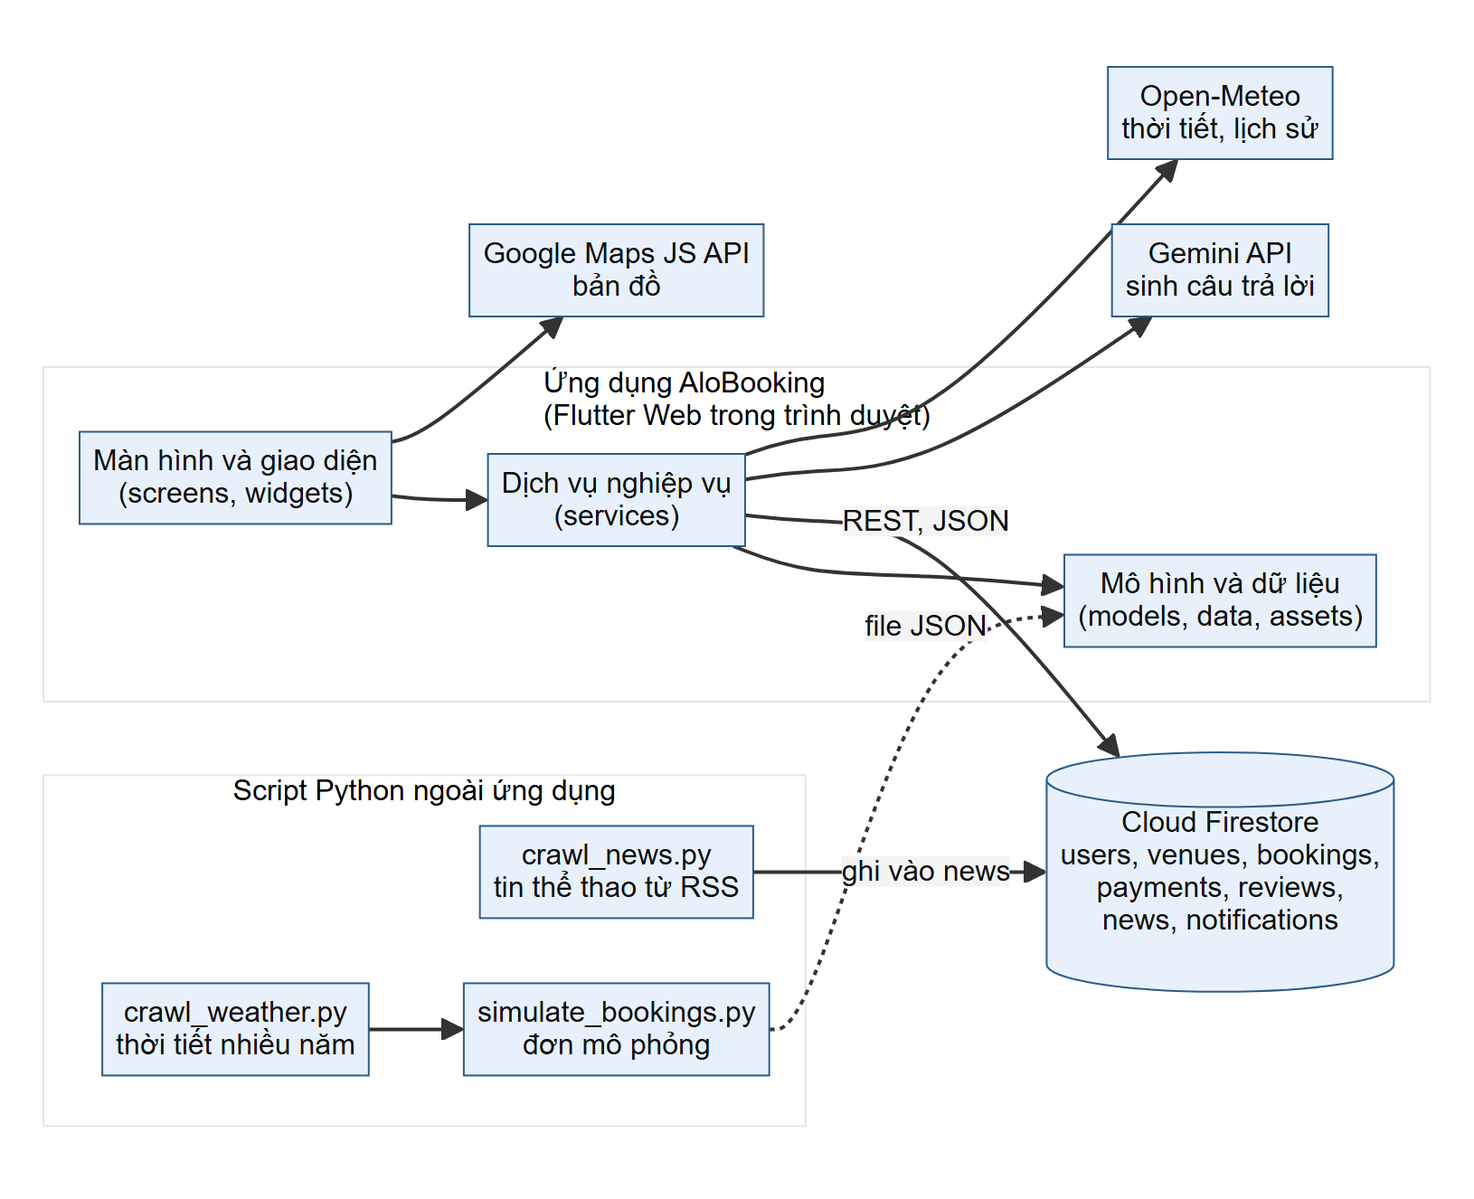
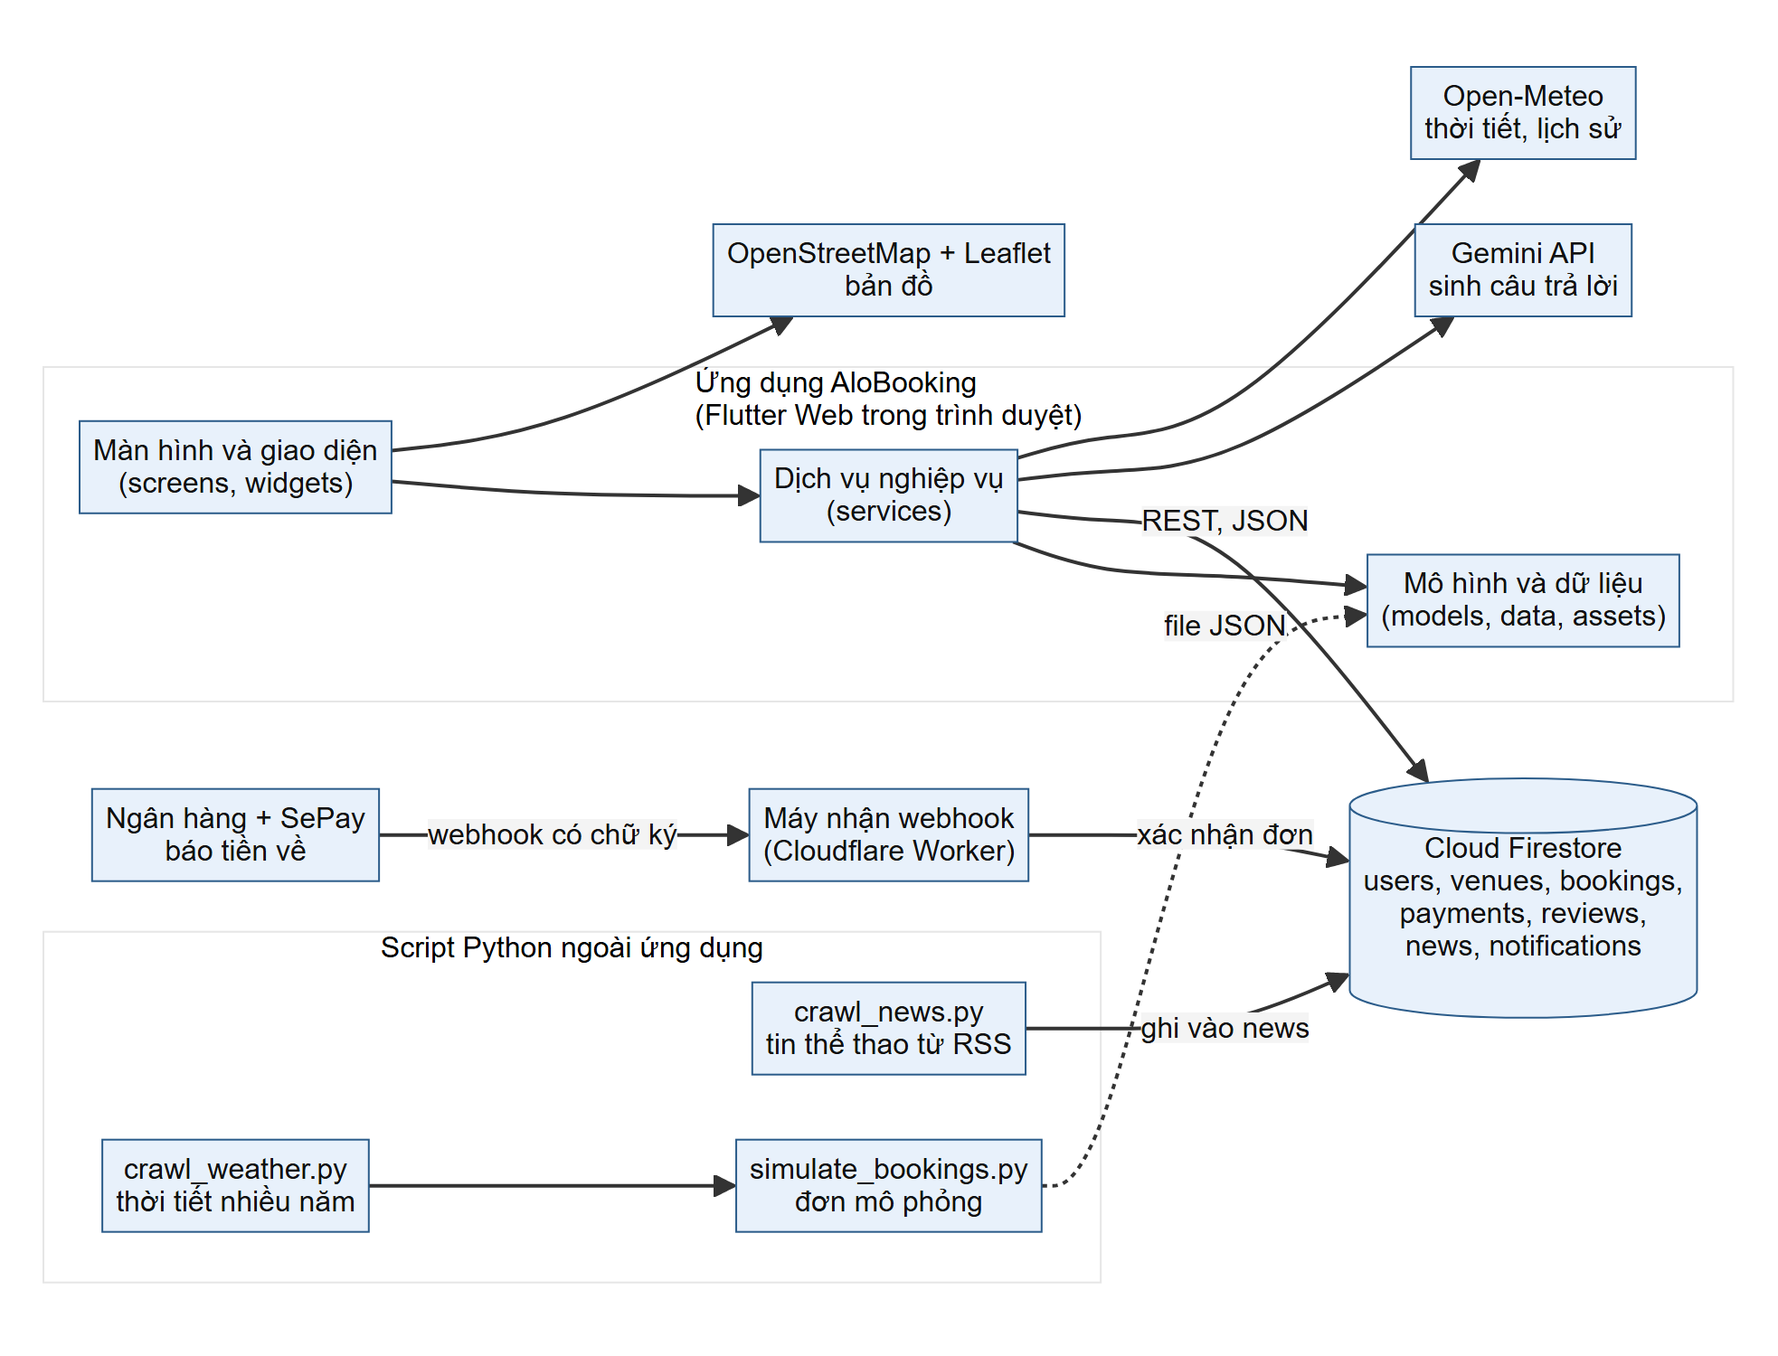
Update the documents and diagrams for SePay payment confirmation

diff --git a/docs/report/BCĐATN_DINHNGOCHUY_2251162033.docx.md b/docs/report/BCĐATN_DINHNGOCHUY_2251162033.docx.md
@@ -20,11 +20,11 @@ Giáo viên hướng dẫn: TS. Đỗ Oanh Cường Email: cuongdo@tlu.edu.vn
 
 Trong bối cảnh các hoạt động thể thao ngày càng phát triển, nhu cầu tìm kiếm và đặt sân thể thao trực tuyến ngày càng phổ biến. Tuy nhiên, người dùng vẫn gặp khó khăn trong việc tìm kiếm sân phù hợp với nhu cầu, lựa chọn thời gian, mức giá và loại sân, đặc biệt khi có nhiều sân và nhiều khung giờ khác nhau. Bên cạnh đó, các đơn vị kinh doanh sân thể thao cần một công cụ hiệu quả để quản lý sân, khách hàng, lịch đặt và doanh thu.
 
-Đề tài tập trung xây dựng “Ứng dụng đa nền tảng quản lý và đặt sân thể thao bằng Flutter tích hợp AI thông minh”, quản lý tập trung thông tin về cụm sân, người dùng, lịch đặt, giá và thanh toán. Ứng dụng phục vụ ba nhóm người dùng chính: khách hàng tìm sân, xem lịch trống theo từng sân con và từng giờ, đặt sân và thanh toán bằng mã VietQR; chủ sân quản lý cụm sân và tự duyệt đơn đặt của sân mình; quản trị viên duyệt cụm sân đăng mới và theo dõi toàn hệ thống. Người dùng chưa đăng nhập vẫn xem được sân, bản đồ và hỏi trợ lý ảo.
+Đề tài tập trung xây dựng “Ứng dụng đa nền tảng quản lý và đặt sân thể thao bằng Flutter tích hợp AI thông minh”, quản lý tập trung thông tin về cụm sân, người dùng, lịch đặt, giá và thanh toán. Ứng dụng phục vụ ba nhóm người dùng chính: khách hàng tìm sân, xem lịch trống theo từng sân con và từng giờ, đặt sân và thanh toán bằng mã VietQR, đơn được tự xác nhận khi tiền về; chủ sân quản lý cụm sân và tự duyệt đơn đặt của sân mình; quản trị viên duyệt cụm sân đăng mới và theo dõi toàn hệ thống. Người dùng chưa đăng nhập vẫn xem được sân, bản đồ và hỏi trợ lý ảo.
 
 Điểm nhấn kỹ thuật là hai thành phần trí tuệ nhân tạo. Thứ nhất, chatbot trợ lý theo kỹ thuật Retrieval-Augmented Generation (RAG) truy xuất dữ liệu của hệ thống (sân, giá, lịch trống, thời tiết) để mô hình ngôn ngữ Gemini trả lời câu hỏi bằng tiếng Việt. Thứ hai, mô hình hồi quy Poisson có điều chuẩn dự báo số đơn đặt sân theo ngày từ thứ trong tuần, ngày lễ và Tết, mùa, lượng mưa và nhiệt độ, kèm khoảng dự đoán và đánh giá mức tin cậy.
 
-Ứng dụng được phát triển bằng Flutter, lưu dữ liệu trên Cloud Firestore thông qua REST API và triển khai trên Firebase Hosting. Trong phạm vi đồ án, ứng dụng được kiểm thử trên nền web; việc đóng gói cho Android và iOS, gợi ý sân cá nhân hóa theo lịch sử người dùng và tích hợp cổng thanh toán là hướng phát triển.
+Ứng dụng được phát triển bằng Flutter, lưu dữ liệu trên Cloud Firestore thông qua REST API và triển khai trên Firebase Hosting; việc nhận biết tiền về dùng webhook của dịch vụ SePay. Trong phạm vi đồ án, ứng dụng được kiểm thử trên nền web; việc đóng gói cho Android và iOS, gợi ý sân cá nhân hóa theo lịch sử người dùng và tích hợp cổng thanh toán là hướng phát triển.
 
 ## CÁC MỤC TIÊU CHÍNH
 
@@ -49,7 +49,7 @@ Hệ thống theo dõi các trạng thái:
 - Đơn đặt: chờ xác nhận, đã xác nhận, hoàn thành, đã hủy.
 ### 3. Xây dựng hệ thống đặt sân trực tuyến:
 
-Cho phép khách hàng tìm kiếm, lọc sân theo môn và khu vực, xem trên bản đồ, chọn ngày, sân con và các giờ còn trống, đặt sân, hủy lịch và theo dõi trạng thái đơn.
+Cho phép khách hàng tìm kiếm, lọc sân theo môn và khu vực, xem trên bản đồ, chọn ngày, sân con và các giờ còn trống, đặt sân và theo dõi trạng thái đơn.
 
 Kiểm tra lại lịch ngay trước khi ghi đơn để hạn chế nhiều người đặt trùng một khung giờ.
 
@@ -60,7 +60,8 @@ Kiểm tra lại lịch ngay trước khi ghi đơn để hạn chế nhiều ng
 Phương thức thanh toán:
 
 - Chuyển khoản ngân hàng bằng mã VietQR đúng số tiền, nội dung chuyển khoản là mã đơn.
-Chủ sân (hoặc quản trị viên đối với sân do hệ thống quản lý) đối chiếu và xác nhận giao dịch.
+- Đơn được tự xác nhận khi nhận được thông báo tiền về hợp lệ từ SePay.
+Giao dịch không tự xác nhận được do chủ sân (hoặc quản trị viên đối với sân do hệ thống quản lý) đối chiếu và xác nhận.
 
 ### 5. Xây dựng chatbot trợ lý và mô hình dự báo số đơn đặt sân:
 
@@ -105,6 +106,7 @@ Nghiên cứu các công nghệ sử dụng:
 - Gemini API và xếp hạng BM25: truy xuất tri thức và sinh câu trả lời cho chatbot.
 - Open-Meteo: dự báo thời tiết và dữ liệu thời tiết lịch sử.
 - VietQR và OpenStreetMap (thư viện Leaflet): mã chuyển khoản và bản đồ.
+- SePay và Cloudflare Workers: báo tiền về bằng webhook và tự xác nhận đơn.
 - Python: thu thập tin tức, thời tiết và sinh dữ liệu mô phỏng.
 - Git/GitHub: quản lý mã nguồn.
 ### 2. Phân tích và thiết kế hệ thống
@@ -142,7 +144,6 @@ Xây dựng các sơ đồ:
 - Xem lịch theo sân con và giờ.
 - Kiểm tra trùng giờ trước khi lưu.
 - Đặt nhiều khung giờ trong một lần.
-- Hủy đặt sân.
 - Theo dõi trạng thái và lịch sử đặt sân.
 ### Module khách hàng
 
@@ -154,6 +155,7 @@ Xây dựng các sơ đồ:
 
 - Tạo mã VietQR theo từng đơn.
 - Quản lý phiếu thu và trạng thái thanh toán.
+- Tự xác nhận đơn khi tiền về (SePay).
 - Chủ sân hoặc quản trị viên xác nhận giao dịch.
 ### Module quản trị và thống kê
 
@@ -220,8 +222,9 @@ Thực hiện kiểm thử tự động (chạy trên GitHub Actions) và kiểm
 
 - Đăng nhập và phân quyền.
 - Quản lý sân.
-- Đặt sân, hủy sân.
+- Đặt sân.
 - Tính giá và mã VietQR.
+- Tự xác nhận thanh toán qua SePay.
 - Duyệt đơn đặt sân.
 - Mô hình và kết quả dự báo.
 - Giao diện người dùng.
@@ -240,7 +243,7 @@ Sửa lỗi, tối ưu số lượt đọc dữ liệu và hoàn thiện tài li
 ### 2. Thực nghiệm:
 
 - Ứng dụng web đặt sân hoạt động với ba vai trò khách hàng, chủ sân và quản trị viên.
-- Khách hàng tìm sân, xem lịch trống, đặt sân và thanh toán bằng mã VietQR.
+- Khách hàng tìm sân, xem lịch trống, đặt sân, thanh toán bằng mã VietQR và đơn được tự xác nhận khi nhận được tiền.
 - Chủ sân quản lý cụm sân, duyệt đơn đặt và xem doanh thu.
 - Quản trị viên duyệt sân, theo dõi đơn, thanh toán, khách hàng và đăng tin tức.
 - Chatbot trả lời câu hỏi dựa trên dữ liệu của hệ thống.
@@ -252,7 +255,7 @@ Sửa lỗi, tối ưu số lượt đọc dữ liệu và hoàn thiện tài li
 | TT | Thời gian | Nội dung công việc | Kết quả dự kiến đạt được |
 |---|---|---|---|
 | 1 | Tuần 1 - 3 | - Khảo sát, phân tích yêu cầu, xác định phạm vi đề tài. <br> - Nghiên cứu Flutter, Cloud Firestore, RAG và dự báo dữ liệu đếm. <br> - Thiết kế dữ liệu và kiến trúc tổng thể. | - Tài liệu đặc tả yêu cầu. <br> - Sơ đồ Use Case, mô hình dữ liệu. <br> - Kiến trúc tổng thể. |
-| 2 | Tuần 4 - 9 | - Dựng ứng dụng Flutter, kết nối Firestore qua REST. <br> - Danh sách sân, tìm kiếm, bản đồ. <br> - Đặt lịch theo sân con và giờ, thanh toán VietQR. <br> - Đăng nhập, phân quyền; trang chủ sân và quản trị. | - Các module nghiệp vụ chính hoạt động. <br> - Hoàn thành luồng đặt, thanh toán và duyệt đơn. |
+| 2 | Tuần 4 - 9 | - Dựng ứng dụng Flutter, kết nối Firestore qua REST. <br> - Danh sách sân, tìm kiếm, bản đồ. <br> - Đặt lịch theo sân con và giờ, thanh toán VietQR, tự xác nhận qua SePay. <br> - Đăng nhập, phân quyền; trang chủ sân và quản trị. | - Các module nghiệp vụ chính hoạt động. <br> - Hoàn thành luồng đặt, thanh toán và duyệt đơn. |
 | 3 | Tuần 10 - 12 | - Thu thập dữ liệu sân, tin tức, thời tiết; sinh dữ liệu mô phỏng. <br> - Xây dựng chatbot RAG. <br> - Xây dựng và đánh giá mô hình dự báo. | - Bộ dữ liệu huấn luyện. <br> - Chatbot trợ lý. <br> - Mô hình dự báo và kết quả đánh giá. |
 | 4 | Tuần 13 - 14 | - Tích hợp dự báo vào trang quản trị và chatbot. <br> - Xây dựng dashboard thống kê. <br> - Kiểm thử tự động, sửa lỗi, tối ưu. | - Dashboard hoàn chỉnh. <br> - Bộ kiểm thử đạt. |
 | 5 | Tuần 15 | - Triển khai trên Firebase Hosting. <br> - Hoàn thiện báo cáo, slide và hồ sơ bảo vệ. | - Ứng dụng chạy trên web. <br> - Báo cáo và slide hoàn chỉnh. |

diff --git a/docs/dac-ta-yeu-cau.md b/docs/dac-ta-yeu-cau.md
@@ -13,7 +13,7 @@ Tài liệu mô tả đúng sản phẩm hiện có trong mã nguồn. Những p
 
 ### 1.1 Mô tả tổng quan
 Ứng dụng web đặt sân thể thao (cầu lông, pickleball, bóng đá, tennis, bóng rổ), dữ liệu sân tập trung ở Hà Nội:
-- **Khách hàng** tìm sân, xem lịch trống theo sân con và theo giờ, đặt sân và thanh toán bằng chuyển khoản VietQR.
+- **Khách hàng** tìm sân, xem lịch trống theo sân con và theo giờ, đặt sân và thanh toán bằng chuyển khoản VietQR; đơn tự xác nhận khi tiền về (qua SePay).
 - **Chủ sân** quản lý cụm sân của mình và tự duyệt đơn đặt.
 - **Quản trị viên** duyệt cụm sân đăng mới, theo dõi đơn, thanh toán, khách hàng, tin tức, thống kê và dự báo.
 - **Khách vãng lai** xem sân, bản đồ, trang Khám phá và hỏi trợ lý ảo.
@@ -30,6 +30,7 @@ Tài liệu mô tả đúng sản phẩm hiện có trong mã nguồn. Những p
 | Thời tiết | Hiện tại, dự báo và lịch sử | Open-Meteo |
 | Bản đồ | Vị trí cụm sân | OpenStreetMap qua thư viện Leaflet (không cần khóa API) |
 | Triển khai | Trang web tĩnh | Firebase Hosting |
+| Đối soát thanh toán | Nhận thông báo tiền về, xác nhận đơn | Webhook SePay + Cloudflare Worker (`sepay-webhook/`) |
 | Script dữ liệu | Tin RSS, thời tiết, đơn mô phỏng, bảng huấn luyện | Python (`alobooking/tool/`) |
 
 Sơ đồ: [kiến trúc](diagrams/kien-truc-he-thong.png), [use case](diagrams/use-case.png), [dữ liệu](diagrams/mo-hinh-du-lieu.png).
@@ -39,7 +40,7 @@ Sơ đồ: [kiến trúc](diagrams/kien-truc-he-thong.png), [use case](diagrams/
 | Vai trò | Cách xác định | Quyền chính |
 |---|---|---|
 | Khách vãng lai | Chưa đăng nhập hoặc vai trò `guest` | Xem, hỏi chatbot; không đặt sân |
-| Khách hàng | `role = customer` | Đặt, thanh toán, hủy, đánh giá |
+| Khách hàng | `role = customer` | Đặt, thanh toán, đánh giá |
 | Chủ sân | `role = owner`, sở hữu sân qua `ownerId` | Quản lý sân và đơn của sân mình |
 | Quản trị viên | `role = admin` | Duyệt sân, theo dõi toàn hệ thống |
 
@@ -59,7 +60,7 @@ Vai trò chỉ lấy từ trường `role` đã lưu, không suy ra từ email.
 | UC04 | Đăng ký, đăng nhập | Khách vãng lai |
 | UC05 | Đặt sân theo giờ | Khách hàng |
 | UC06 | Thanh toán chuyển khoản VietQR | Khách hàng |
-| UC07 | Xem và hủy lịch đã đặt | Khách hàng |
+| UC07 | Xem lịch đã đặt | Khách hàng |
 | UC08 | Đánh giá sân đã chơi | Khách hàng |
 | UC09 | Đánh dấu yêu thích, nhận thông báo | Khách hàng |
 | UC10 | Đăng ký, sửa, xóa cụm sân | Chủ sân |
@@ -79,11 +80,13 @@ Vai trò chỉ lấy từ trường `role` đã lưu, không suy ra từ email.
 - Ca giờ vàng 16:00 – 22:00 tính giá cao, giờ còn lại tính giá thấp trong khoảng giá chủ sân khai báo.
 - Lịch được tải lại ngay trước khi ghi đơn để phát hiện trùng giờ.
 - Trạng thái đơn: Chờ xác nhận → Đã xác nhận → Hoàn thành, hoặc Đã hủy ([sơ đồ](diagrams/trang-thai-don-dat.png)).
-- Khách tự hủy được đơn chờ xác nhận hoặc đã xác nhận khi còn cách giờ chơi (ca sớm nhất của đơn) từ 2 tiếng trở lên; còn dưới 2 tiếng thì không hủy được. Chủ sân và quản trị viên không bị giới hạn này.
+- Khách **không tự hủy** được đơn. Chỉ đơn đang chờ xác nhận mới hủy được trên ứng dụng, do chủ sân (hoặc quản trị viên với sân do hệ thống quản lý) thực hiện; đơn đã xác nhận không có nút hủy, sự cố và hoàn tiền xử lý ngoài ứng dụng.
 
 **Thanh toán**
 - Chỉ chuyển khoản qua mã VietQR đúng số tiền, nội dung là mã đơn.
-- Phiếu thu: Đang xử lý → Thành công hoặc Đã hoàn tiền; chuyển sang Thành công khi người duyệt xác nhận đơn.
+- Phiếu thu: Đang xử lý → Thành công hoặc Đã hoàn tiền.
+- Tự xác nhận: SePay gửi webhook có chữ ký HMAC khi tiền về; máy nhận kiểm tra đúng tài khoản, đúng mã đơn trong nội dung và đủ số tiền rồi mới xác nhận đơn. Chuyển thiếu, sai nội dung thì chủ sân xử lý thủ công.
+- Màn thanh toán hỏi trạng thái đơn mỗi 4 giây (tối đa 10 phút), được xác nhận thì báo thành công và chuyển sang lịch đã đặt.
 - Hoàn tiền do chủ sân xử lý ngoài ứng dụng.
 
 **Quản lý sân và duyệt**
@@ -106,7 +109,8 @@ Vai trò chỉ lấy từ trường `role` đã lưu, không suy ra từ email.
 - **Bảo mật hiện tại:** mật khẩu băm SHA-256 kèm salt 16 byte; khóa API và tài khoản nhận tiền nằm ngoài mã nguồn; bản web công khai không chứa khóa Gemini và tài khoản demo.
 - **Khả dụng:** giao diện tiếng Việt, dùng được từ màn hình điện thoại đến máy tính.
 - **Tương thích:** trình duyệt hiện đại, đã kiểm thử trên Chrome.
-- **Kiểm thử:** kiểm thử tự động bằng `flutter test`, phân tích mã bằng `dart analyze`, chạy trên GitHub Actions (`.github/workflows/ci.yml`).
+- **Kiểm thử:** `flutter test`, `dart analyze --fatal-infos` (không còn vấn đề nào) và kiểm thử máy nhận webhook, chạy trên GitHub Actions (`.github/workflows/ci.yml`).
+- **Kiểm thử tích hợp AI:** `test/integration/gemini_live_test.dart` gọi Gemini thật, tự bỏ qua khi không có khóa. Ngày 28/11/2026: ba model ưu tiên trả lời HTTP 200, model dự phòng cuối `gemini-flash-latest` quá 40 giây không trả lời.
 
 ---
 
@@ -116,7 +120,6 @@ Vai trò chỉ lấy từ trường `role` đã lưu, không suy ra từ email.
 |---|:---:|:---:|:---:|:---:|
 | Xem sân, bản đồ, Khám phá, chatbot | Có | Có | Có | Có |
 | Đặt sân và thanh toán | Không | Có | Có | Có |
-| Hủy lịch do mình đặt | Không | Có | Có | Có |
 | Đánh giá sân đã chơi xong | Không | Có | Có | Có |
 | Đăng ký, sửa, xóa sân | Không | Không | Sân của mình | Mọi sân |
 | Duyệt cụm sân đăng mới | Không | Không | Không | Có |
@@ -134,7 +137,8 @@ Vai trò chỉ lấy từ trường `role` đã lưu, không suy ra từ email.
 - Ghi đơn chưa dùng giao dịch, hai người đặt gần như cùng lúc vẫn có thể cùng thành công.
 - Đơn liên kết với sân bằng tên sân.
 - Số đơn thật còn ít nên mô hình dự báo chưa chứng minh được hiệu quả trên dữ liệu thật.
-- Chưa có cổng thanh toán.
+- Chưa có cổng thanh toán; việc đối soát tự động dựa vào webhook của SePay.
+- Vì cơ sở dữ liệu đang mở, trạng thái đơn có thể bị sửa mà không qua máy nhận; chủ sân nên đối chiếu lịch sử giao dịch.
 
 ## 6. CHƯA THỰC HIỆN (hướng phát triển)
 

diff --git a/docs/report/Checklist_DoAnTotNghiep_DinhNgocHuy.md b/docs/report/Checklist_DoAnTotNghiep_DinhNgocHuy.md
@@ -15,8 +15,10 @@ Cập nhật theo sản phẩm thực tế. `[x]` đã xong, `[ ]` chưa làm.
 - [x] Quản lý sân: thêm, sửa, xóa, loại sân, giá, giờ mở cửa, duyệt sân mới.
 - [x] Khách hàng: đăng ký, đăng nhập, lịch sử đặt, đánh giá, thông báo.
 - [ ] Khách hàng cập nhật thông tin cá nhân.
-- [x] Đặt sân: tìm kiếm, xem lịch trống, đặt, hủy.
+- [x] Đặt sân: tìm kiếm, xem lịch trống, đặt; chủ sân và quản trị viên hủy đơn.
 - [x] Thanh toán VietQR và xác nhận giao dịch.
+- [x] Tự xác nhận đơn khi tiền về qua webhook SePay (đã thử bằng thông báo giả lập có chữ ký).
+- [ ] Đăng ký webhook trên SePay và thử bằng chuyển khoản thật.
 
 ### Giai đoạn 3: Dự báo nhu cầu (Tuần 10 - 12)
 - [x] Thu thập thời tiết nhiều năm, ngày lễ; sinh đơn mô phỏng có nhãn.
@@ -33,7 +35,8 @@ Cập nhật theo sản phẩm thực tế. `[x]` đã xong, `[ ]` chưa làm.
 
 ### Giai đoạn 5: Kiểm thử, triển khai, báo cáo (Tuần 15)
 - [x] Kiểm thử tự động và `dart analyze`.
-- [x] GitHub Actions chạy phân tích mã và kiểm thử (đã chạy thành công ngày 28/11/2026).
+- [x] GitHub Actions chạy `dart analyze --fatal-infos` và kiểm thử.
+- [x] Kiểm thử tích hợp gọi Gemini thật (`test/integration/gemini_live_test.dart`).
 - [x] Triển khai web trên Firebase Hosting: https://alobooking-b2484.web.app
 - [ ] Bảo mật phía máy chủ (Firebase Authentication + luật Firestore).
 - [ ] Hoàn thiện cuốn báo cáo với ảnh giao diện mới.

diff --git a/README.md b/README.md
@@ -71,8 +71,15 @@ Hai tham số cuối của lệnh build giữ cho khóa Gemini và tài khoản 
 
 ```
 flutter test
-dart analyze
+dart analyze --fatal-infos
+flutter test test/integration/gemini_live_test.dart --dart-define-from-file=dart_defines.json   # gọi Gemini thật
 ```
+
+Test gọi Gemini tự bỏ qua khi không truyền khóa. Trên GitHub Actions, thêm secret `GEMINI_API_KEY` thì bước này mới chạy.
+
+## Tự xác nhận thanh toán qua SePay
+
+Máy nhận webhook ở [sepay-webhook/](sepay-webhook/README.md) (Cloudflare Worker). Kiểm thử: `node --test test/worker.test.mjs` trong thư mục đó.
 
 ## Script lấy dữ liệu (`alobooking/tool/`)
 
